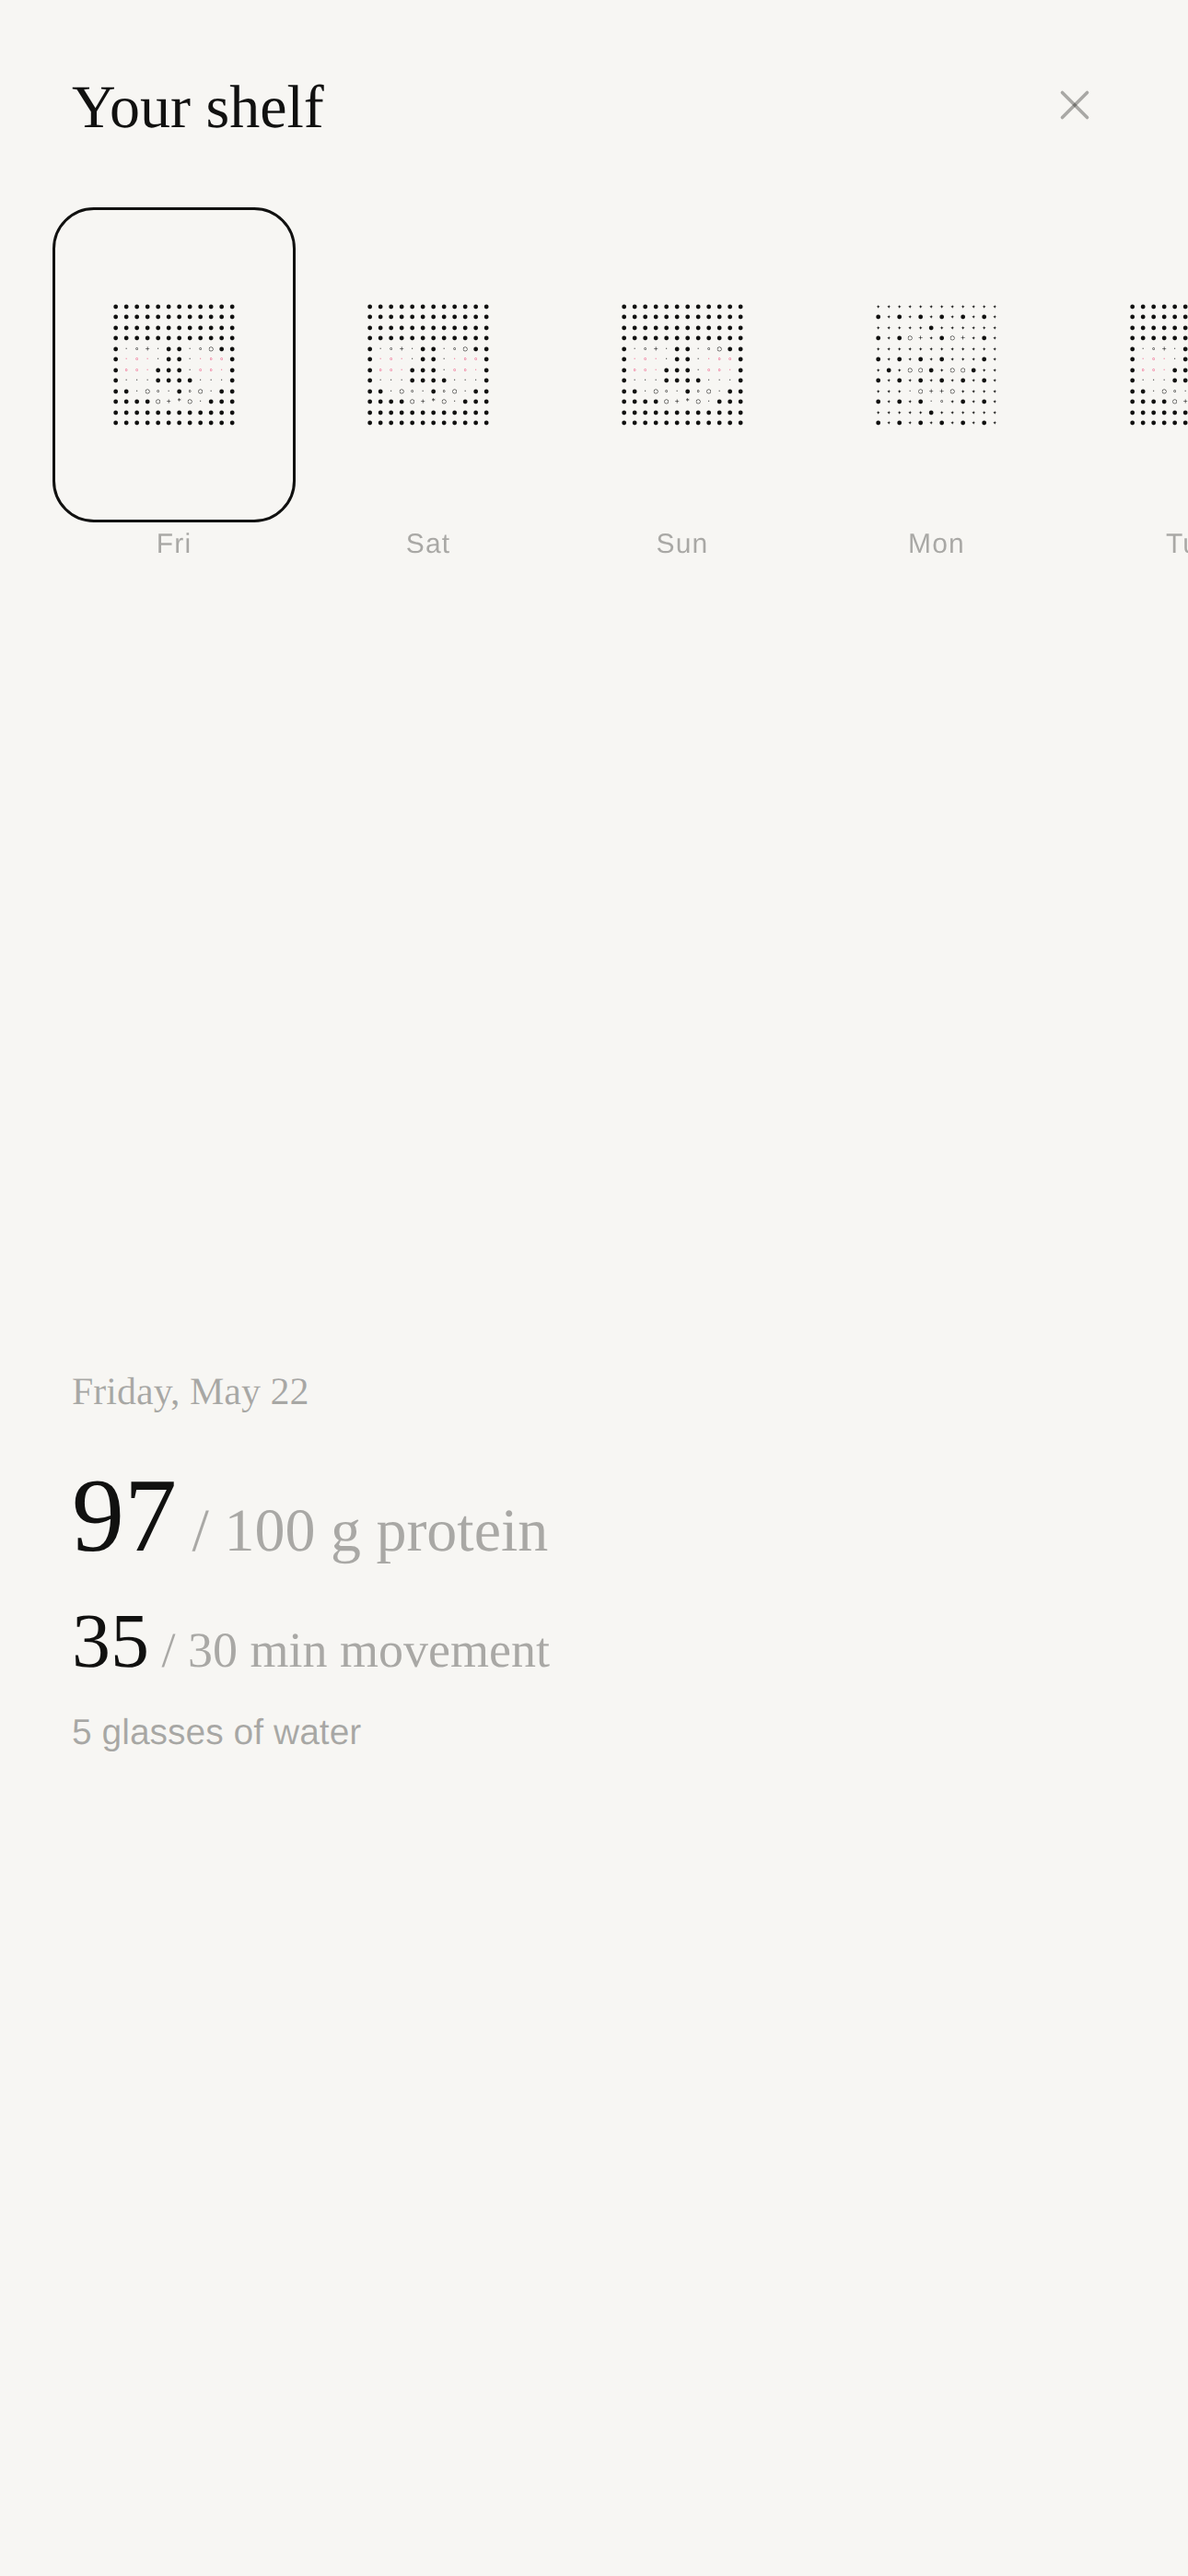
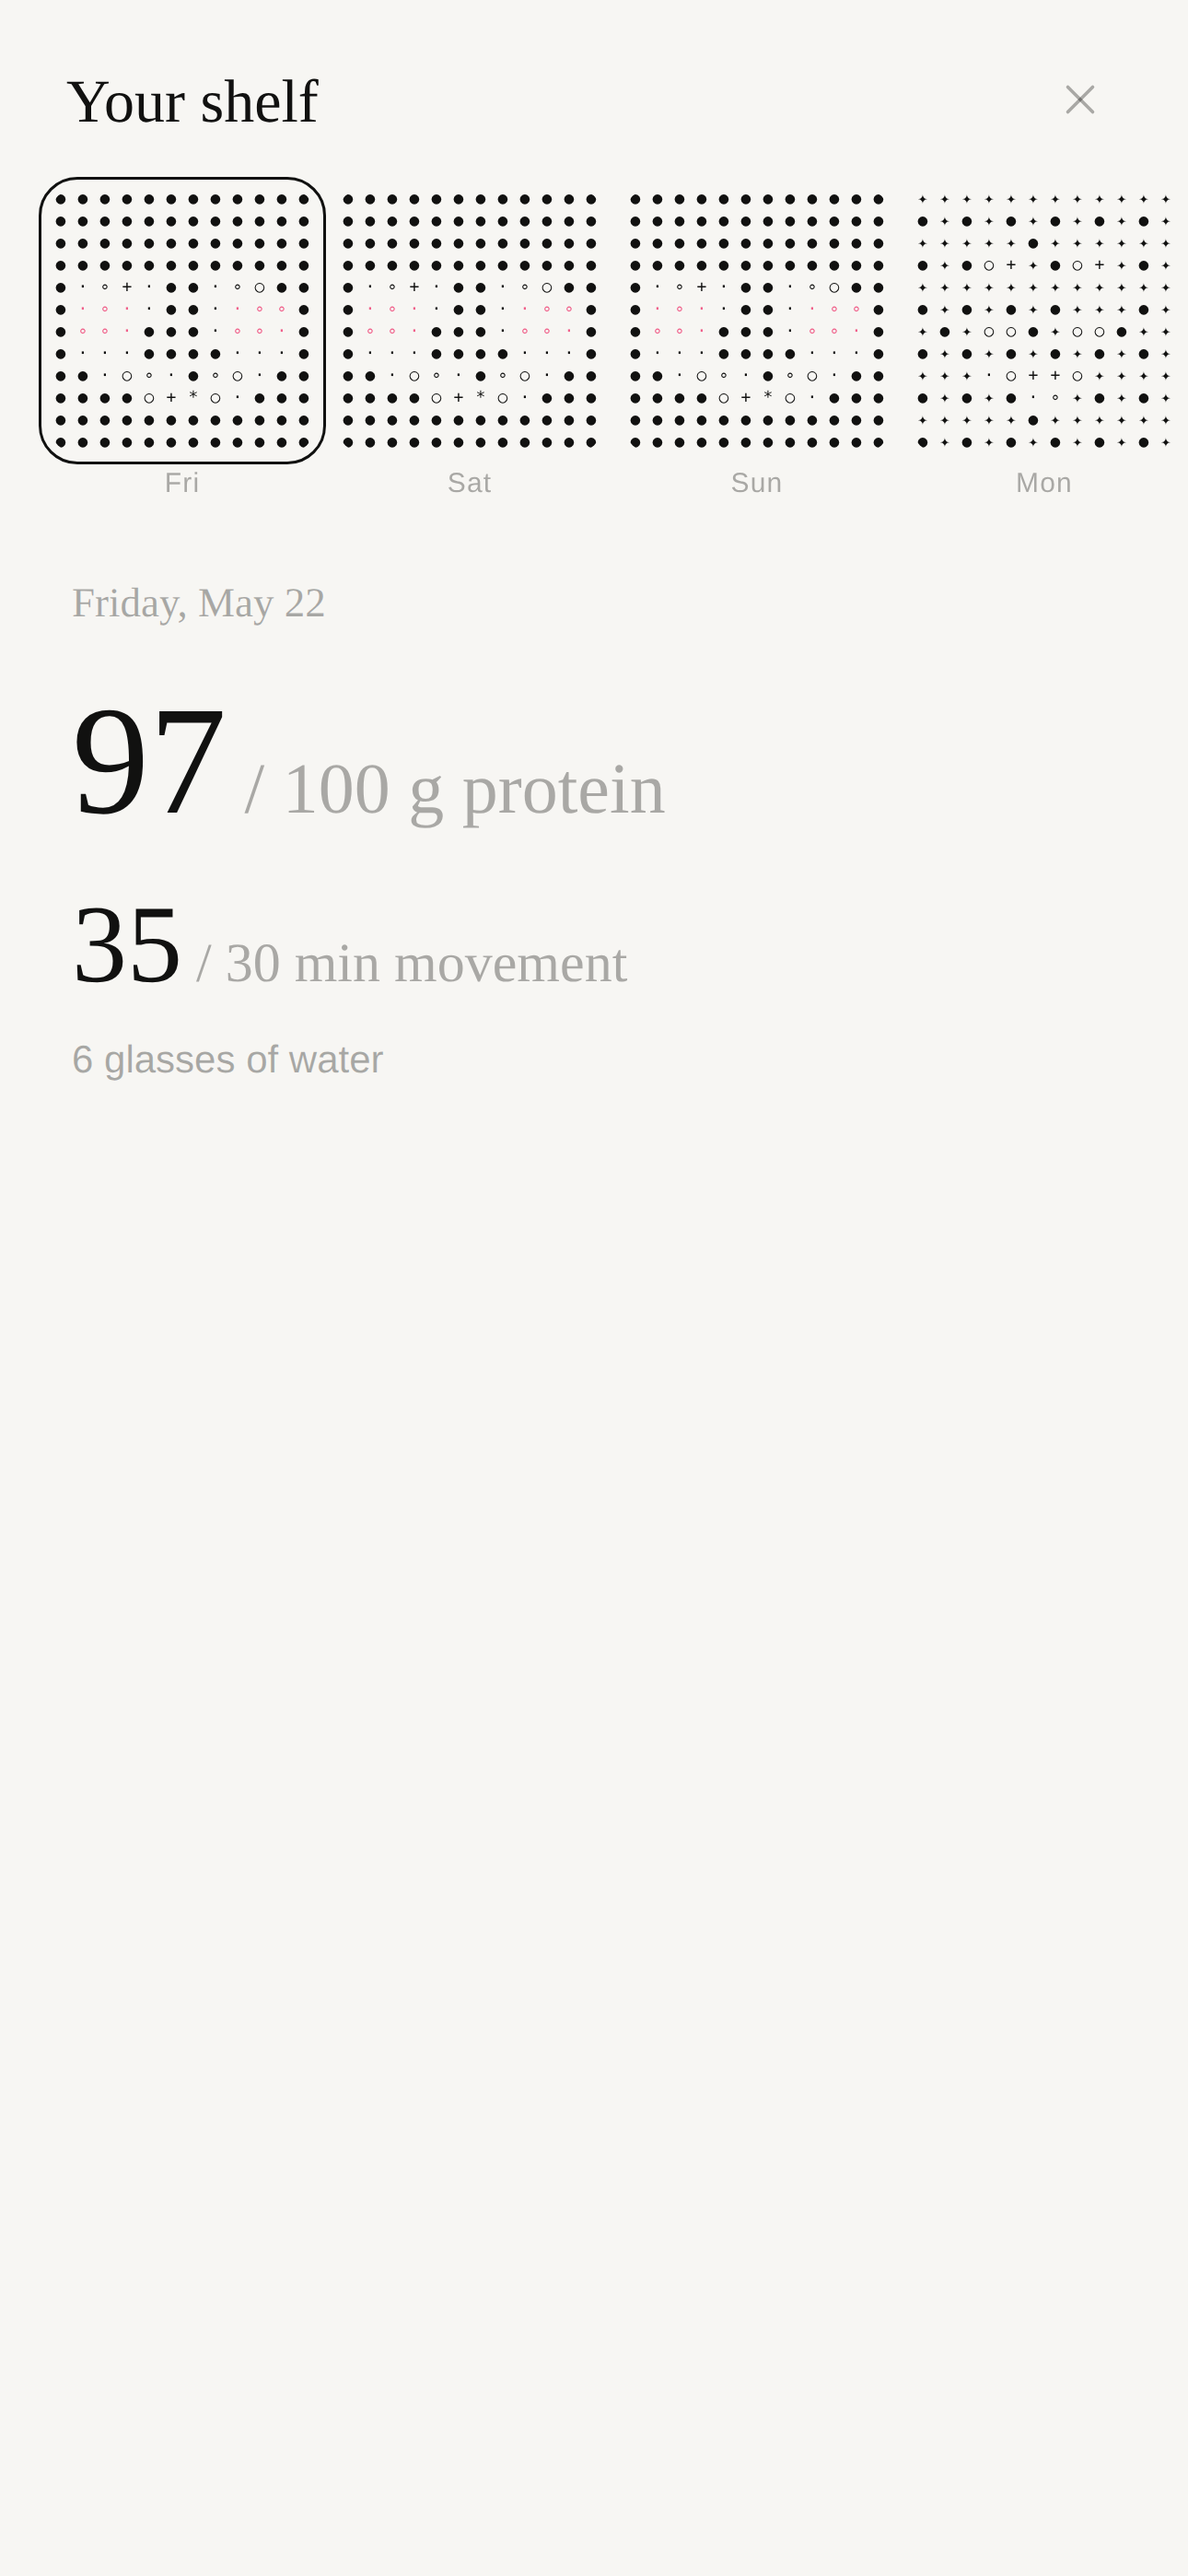
Redesign shelf layout: bigger tiles, fill canvas, anchored detail panel
- Tiles: 52×78 → 72×72 square, canvas fills 100% of tile (no dead space)
- ShelfTile canvas auto-syncs backing store from clientWidth each RAF frame,
  eliminating both the DPR mismatch and React re-render reset issues
- Detail panel: remove vertical centering so info appears near the tiles;
  protein fontSize 38→56, movement 28→40
- Reduced tile padding/gap for tighter row layout

https://claude.ai/code/session_018M7KFojsfkFW1Qy3FznzBY

diff --git a/index.html b/index.html
@@ -676,10 +676,6 @@ function ShelfTile({ polish, definition, inkColor }) {
   useEffect(() => {
     const canvas = canvasRef.current;
     if (!canvas) return;
-    // DPR-aware backing store — no width/height in JSX so React never resets this
-    const dpr = window.devicePixelRatio || 1;
-    canvas.width = SHELF_SZ * dpr;
-    canvas.height = SHELF_SZ * dpr;
     const ctx = canvas.getContext('2d');
     const s = anim.current;
     const G = SHELF_G;
@@ -687,7 +683,14 @@ function ShelfTile({ polish, definition, inkColor }) {
 
     function frame(now) {
       s.raf = requestAnimationFrame(frame);
-      const sz = canvas.width; // read dynamically — safe after React re-renders
+      // Auto-sync backing store to CSS display size — survives React re-renders
+      const dpr = window.devicePixelRatio || 1;
+      const cssW = canvas.clientWidth, cssH = canvas.clientHeight;
+      if (cssW > 0) {
+        const tw = Math.round(cssW * dpr), th = Math.round(cssH * dpr);
+        if (canvas.width !== tw || canvas.height !== th) { canvas.width = tw; canvas.height = th; }
+      }
+      const sz = canvas.width || 1;
       const cell = sz / G;
       const fsize = Math.max(6, Math.floor(cell * 0.78));
       const dt = Math.min((now - s.t0) / 1000, 0.05);
@@ -749,12 +752,7 @@ function ShelfTile({ polish, definition, inkColor }) {
     return () => cancelAnimationFrame(s.raf);
   }, [completion]);
 
-  return (
-    <div style={{ width: "100%", height: "100%", display: "flex", alignItems: "center", justifyContent: "center" }}>
-      <canvas ref={canvasRef}
-        style={{ display: "block", width: SHELF_SZ, height: SHELF_SZ }} />
-    </div>
-  );
+  return <canvas ref={canvasRef} style={{ display: "block", width: "100%", height: "100%" }} />;
 }
 
 /* ---- shelf view --------------------------------------------------- */
@@ -780,12 +778,12 @@ function ShelfView({ shelf, todayP, todayM, todayPTarget, todayMTarget, todayW, 
 
   return (
     <div style={{ position: "absolute", inset: 0, zIndex: 7, background: C.base, display: "flex", flexDirection: "column", animation: "hewnFade 380ms ease" }}>
-      <div style={{ display: "flex", justifyContent: "space-between", alignItems: "center", padding: "26px 26px 0" }}>
+      <div style={{ display: "flex", justifyContent: "space-between", alignItems: "center", padding: "24px 24px 0" }}>
         <span style={{ fontFamily: "'Fraunces', serif", fontSize: 22, color: C.ink }}>Your shelf</span>
         <button onClick={onClose} style={{ border: "none", background: "none", cursor: "pointer", color: C.inkMute }}><IX size={18} /></button>
       </div>
-      <div style={{ overflowX: "auto", overflowY: "hidden", padding: "28px 22px 16px", scrollbarWidth: "none" }}>
-        <div style={{ display: "flex", gap: 10, alignItems: "flex-end", minWidth: "max-content" }}>
+      <div style={{ overflowX: "auto", overflowY: "hidden", padding: "18px 18px 10px", scrollbarWidth: "none" }}>
+        <div style={{ display: "flex", gap: 8, alignItems: "flex-end", minWidth: "max-content" }}>
           {days.map(({ ds, entry, isToday, dow }) => {
             const polish = entry ? Math.min(1, entry.p / (entry.pTarget || 100)) : 0;
             const definition = entry ? Math.min(1, entry.m / (entry.mTarget || 30)) : 0;
@@ -793,18 +791,19 @@ function ShelfView({ shelf, todayP, todayM, todayPTarget, todayMTarget, todayW, 
             const isSel = selected === ds;
             return (
               <button key={ds} onClick={() => setSelected(isSel ? null : ds)}
-                style={{ background: "none", border: "none", cursor: "pointer", padding: "0 2px",
+                style={{ background: "none", border: "none", cursor: "pointer", padding: 0,
                   display: "flex", flexDirection: "column", alignItems: "center",
-                  opacity: hasAny || isToday ? 1 : 0.2 }}>
-                <div style={{ width: 52, height: 78, outline: isSel ? "1.5px solid " + C.accent : "none", borderRadius: 6, outlineOffset: 4 }}>
+                  opacity: hasAny || isToday ? 1 : 0.18 }}>
+                <div style={{ width: 72, height: 72, borderRadius: 10, overflow: "hidden",
+                  outline: isSel ? "1.5px solid " + C.accent : "none", outlineOffset: 3 }}>
                   {hasAny || isToday
                     ? <ShelfTile polish={polish} definition={definition} inkColor={inkColor} />
                     : <div style={{ width: "100%", height: "100%", display: "flex", alignItems: "center", justifyContent: "center" }}>
-                        <div style={{ width: 18, height: 18, border: `0.3px solid ${C.inkFaint}`, borderRadius: "50%" }} />
+                        <div style={{ width: 20, height: 20, border: `0.5px solid ${C.inkFaint}`, borderRadius: "50%" }} />
                       </div>
                   }
                 </div>
-                <div style={{ fontSize: 10, marginTop: 8, fontFamily: "'Hanken Grotesk', sans-serif", fontWeight: isToday ? 600 : 500, letterSpacing: "0.04em",
+                <div style={{ fontSize: 10, marginTop: 6, fontFamily: "'Hanken Grotesk', sans-serif", fontWeight: isToday ? 600 : 500, letterSpacing: "0.04em",
                   color: isToday ? C.accent : C.inkMute }}>
                   {isToday ? "Today" : dow}
                 </div>
@@ -813,29 +812,29 @@ function ShelfView({ shelf, todayP, todayM, todayPTarget, todayMTarget, todayW, 
           })}
         </div>
       </div>
-      <div style={{ flex: 1, padding: "8px 26px 28px", display: "flex", flexDirection: "column", justifyContent: "center" }}>
+      <div style={{ flex: 1, padding: "20px 26px 28px", display: "flex", flexDirection: "column" }}>
         {sel && sel.entry && (sel.entry.p > 0 || sel.entry.m > 0) ? (
           <div style={{ animation: "hewnFade 300ms ease" }}>
-            <div style={{ fontFamily: "'Fraunces', serif", fontSize: 14, color: C.inkMute, marginBottom: 16 }}>
+            <div style={{ fontFamily: "'Fraunces', serif", fontSize: 15, color: C.inkMute, marginBottom: 20 }}>
               {sel.isToday ? "Today" : sel.d.toLocaleDateString("en-US", { weekday: "long", month: "long", day: "numeric" })}
             </div>
-            <div style={{ fontFamily: "'Fraunces', serif", fontSize: 38, fontWeight: 400, lineHeight: 1.1, marginBottom: 8 }}>
+            <div style={{ fontFamily: "'Fraunces', serif", fontSize: 56, fontWeight: 400, lineHeight: 1, marginBottom: 14 }}>
               <span style={{ color: C.ink }}>{Math.round(sel.entry.p)}</span>
-              <span style={{ color: C.inkMute, fontSize: 22 }}> / {sel.entry.pTarget || 100} g protein</span>
+              <span style={{ color: C.inkMute, fontSize: 26 }}> / {sel.entry.pTarget || 100} g protein</span>
             </div>
-            <div style={{ fontFamily: "'Fraunces', serif", fontSize: 28, fontWeight: 400 }}>
+            <div style={{ fontFamily: "'Fraunces', serif", fontSize: 40, fontWeight: 400, marginBottom: 6 }}>
               <span style={{ color: C.ink }}>{Math.round(sel.entry.m)}</span>
-              <span style={{ color: C.inkMute, fontSize: 18 }}> / {sel.entry.mTarget || 30} min movement</span>
+              <span style={{ color: C.inkMute, fontSize: 20 }}> / {sel.entry.mTarget || 30} min movement</span>
             </div>
             {sel.entry.w > 0 && (
-              <div style={{ fontSize: 13, color: C.inkMute, marginTop: 8 }}>{sel.entry.w} glasses of water</div>
+              <div style={{ fontSize: 14, color: C.inkMute, marginTop: 10 }}>{sel.entry.w} glasses of water</div>
             )}
             {sel.entry.note && (
-              <div style={{ fontSize: 13, color: C.inkMute, marginTop: 6, fontStyle: "italic" }}>"{sel.entry.note}"</div>
+              <div style={{ fontSize: 14, color: C.inkMute, marginTop: 8, fontStyle: "italic" }}>"{sel.entry.note}"</div>
             )}
           </div>
         ) : (
-          <div style={{ color: C.inkMute, fontSize: 13, fontFamily: "'Hanken Grotesk', sans-serif", lineHeight: 1.6 }}>
+          <div style={{ color: C.inkMute, fontSize: 14, fontFamily: "'Hanken Grotesk', sans-serif", lineHeight: 1.6 }}>
             {sel && !sel.entry ? "A rest day." : "Tap a day to see the numbers."}
           </div>
         )}
